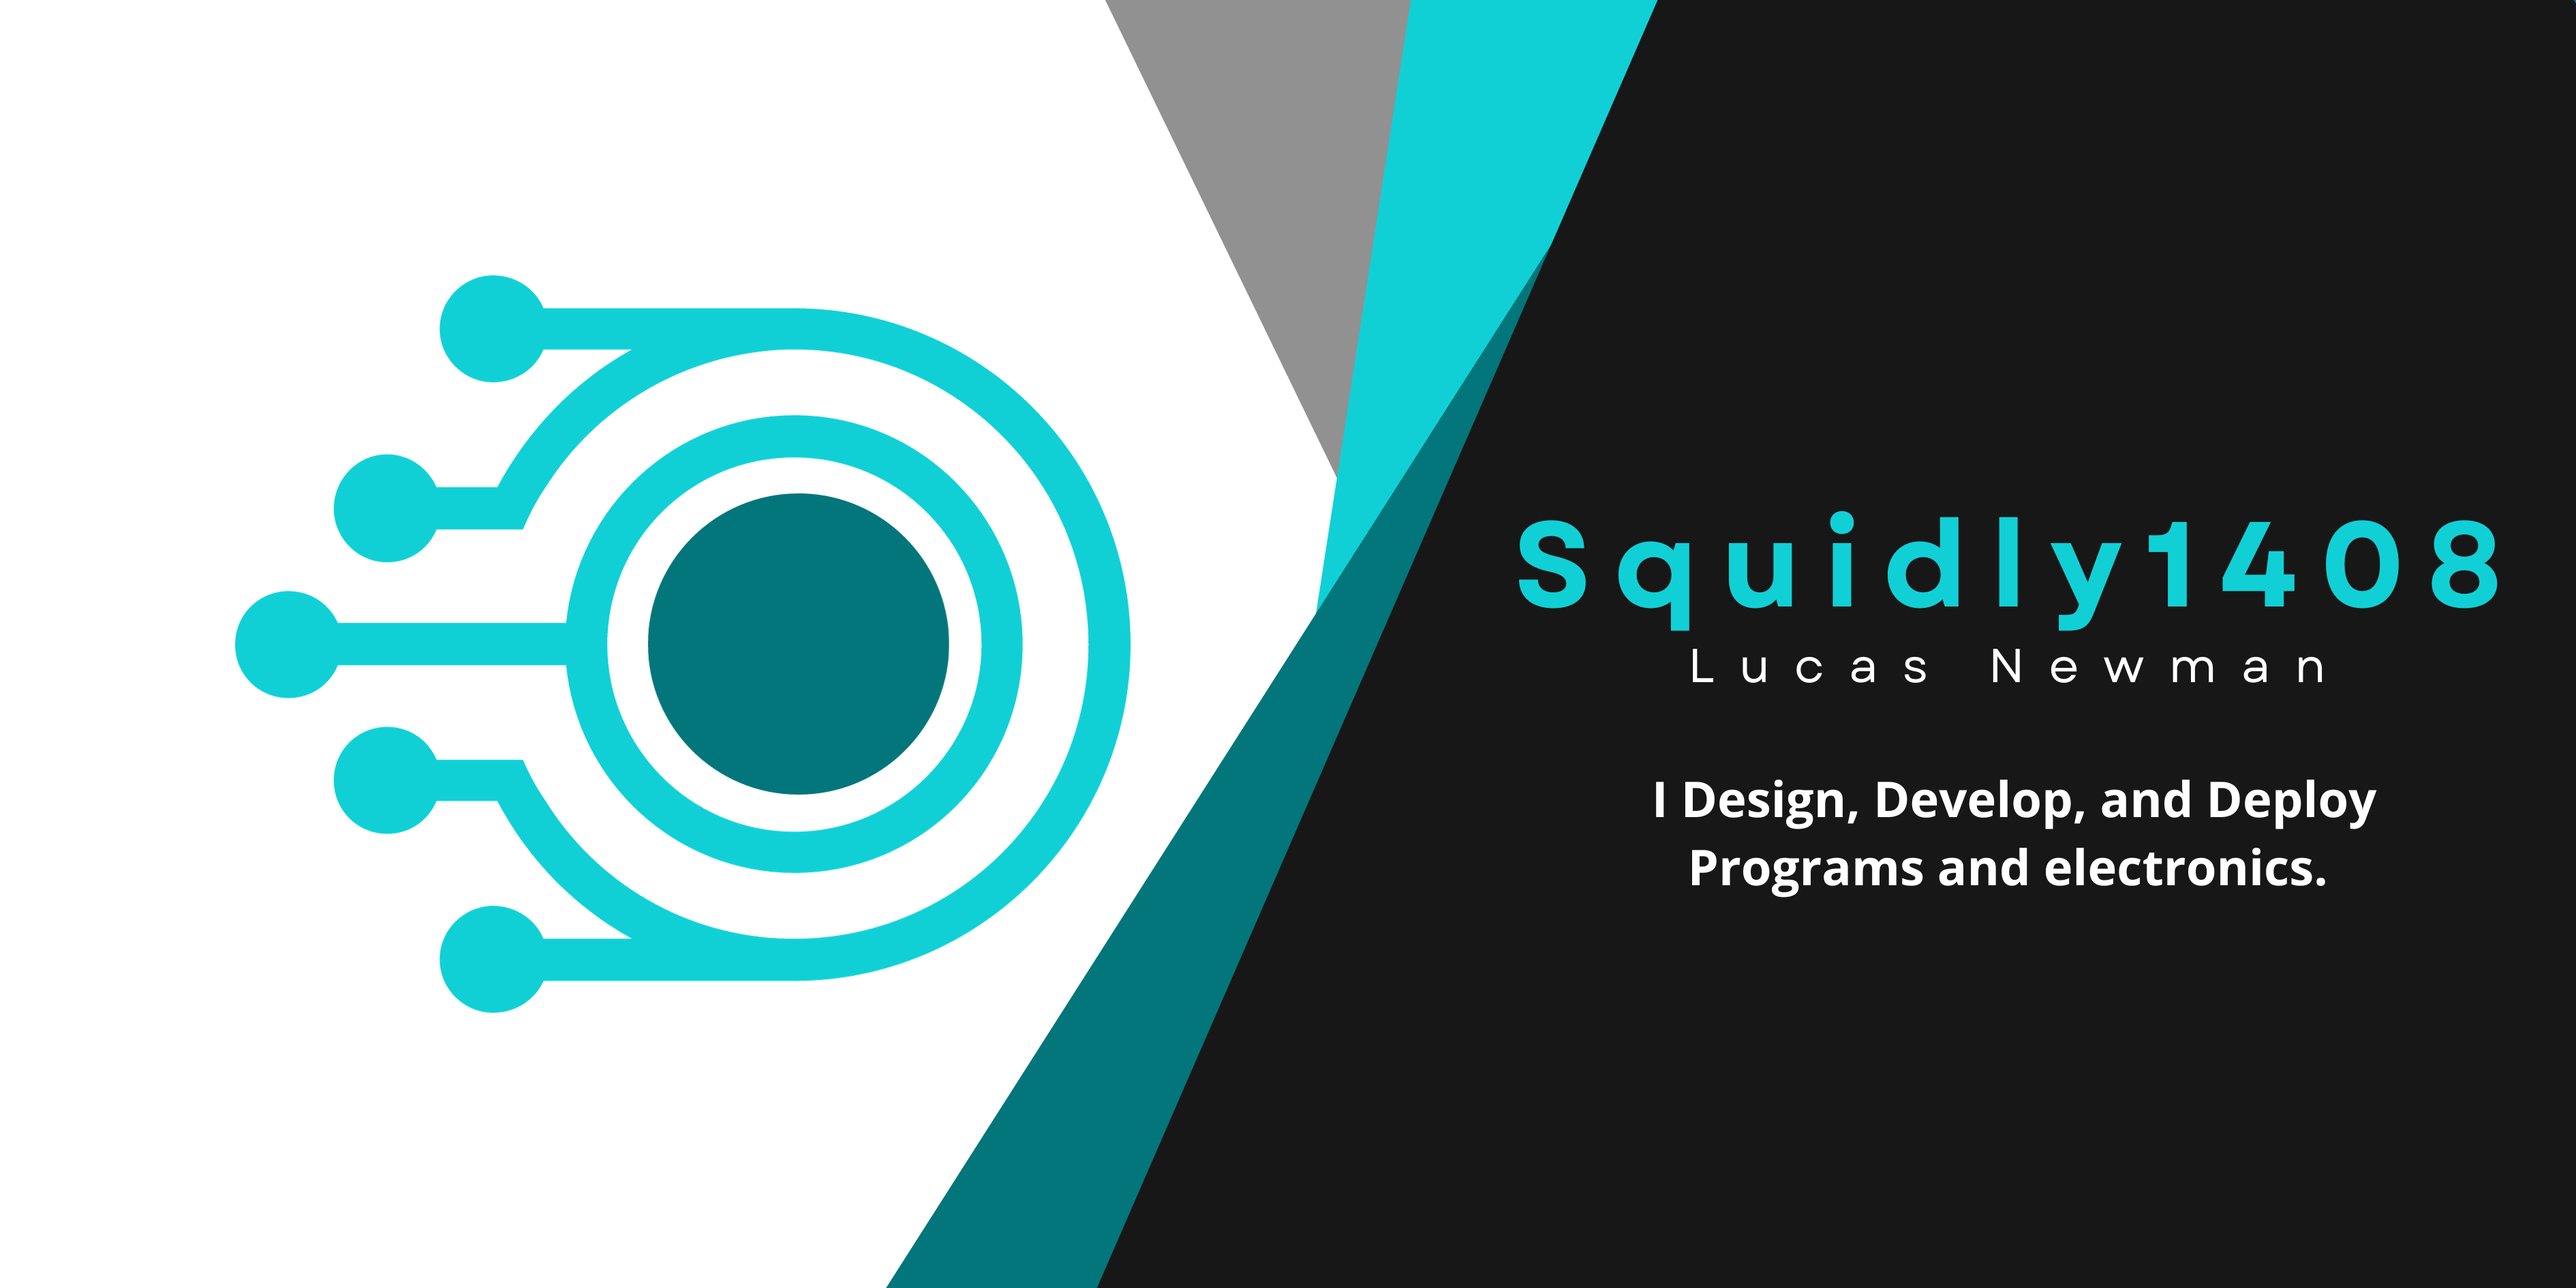
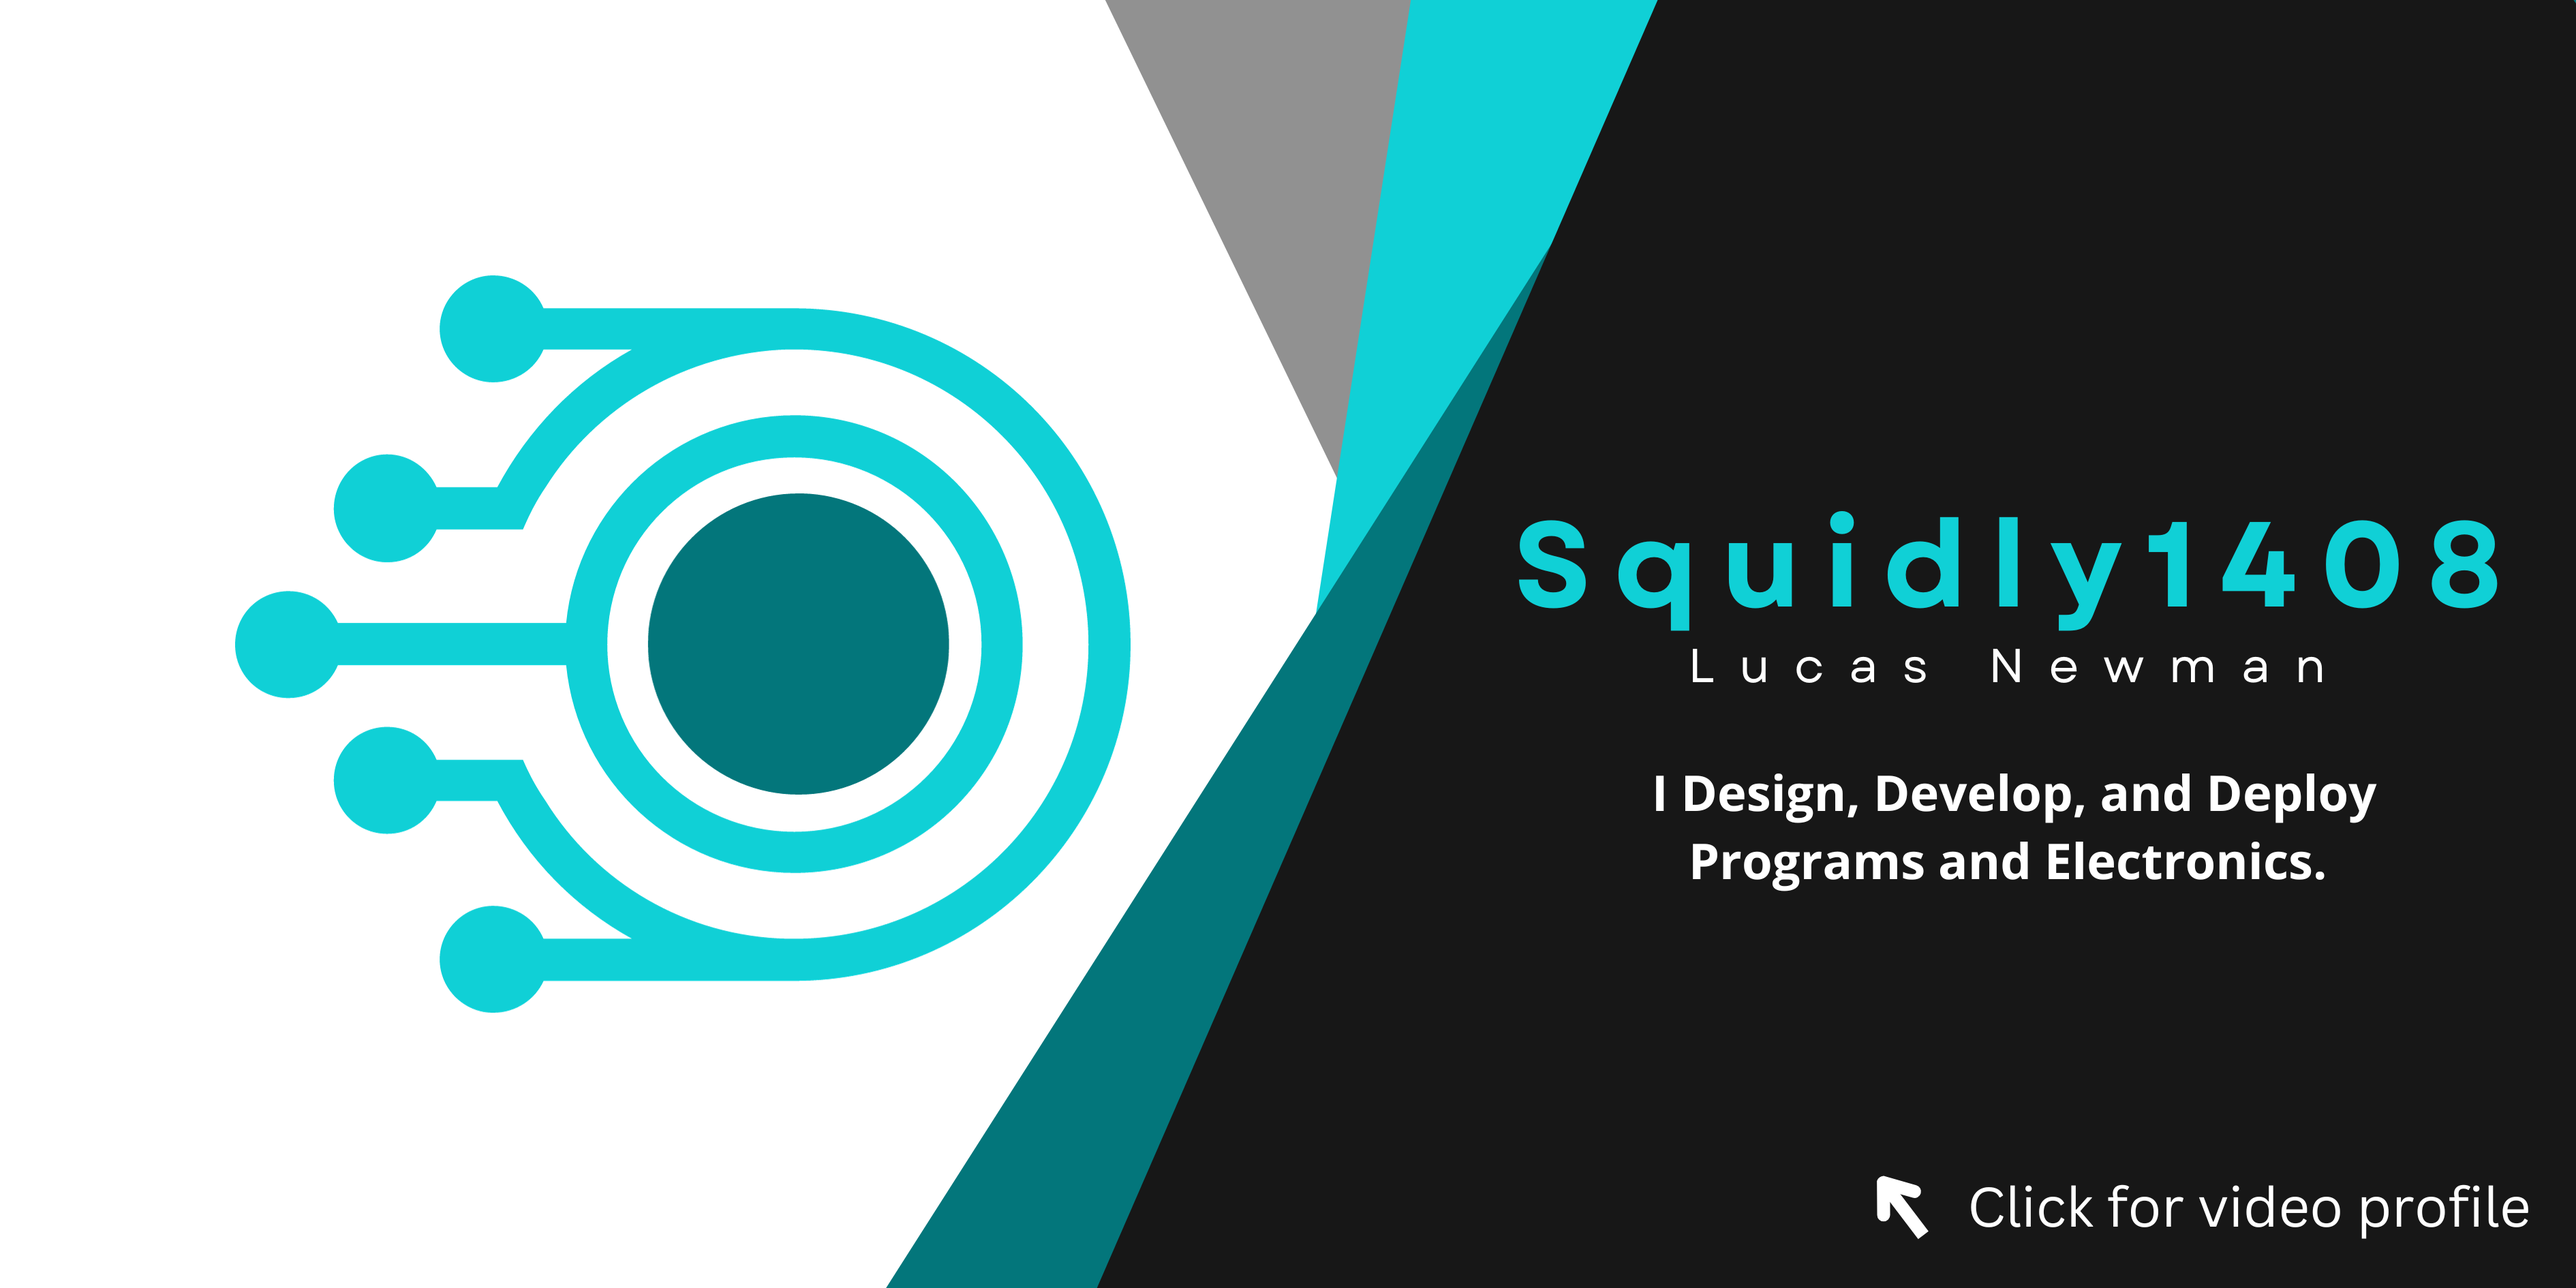
adding senior video profile

Changed region(s): [[0.6556, 0.5931, 0.9365, 0.6868], [0.7804, 0.9053, 0.9677, 0.9677], [0.718, 0.9053, 0.7492, 0.9677]]

diff --git a/lib/pages/home.dart b/lib/pages/home.dart
@@ -91,9 +91,17 @@ class _HomeState extends State<Home> {
                 children: [
                   // banner
                   // need to change it to video banner that has hidden controls
-                  Image.asset(
-                    'lib/assets/images/homepage/homepage_banner.png',
-                    fit: BoxFit.fitWidth,
+                  MaterialButton(
+                    onPressed: () {
+                      launchUrl(
+                        Uri.parse(
+                            'https://www.youtube.com/watch?v=yr4ZM_fUJUs'),
+                      );
+                    },
+                    child: Image.asset(
+                      'lib/assets/images/homepage/homepage_banner.png',
+                      fit: BoxFit.fitWidth,
+                    ),
                   ),
 
                   // About me banner
